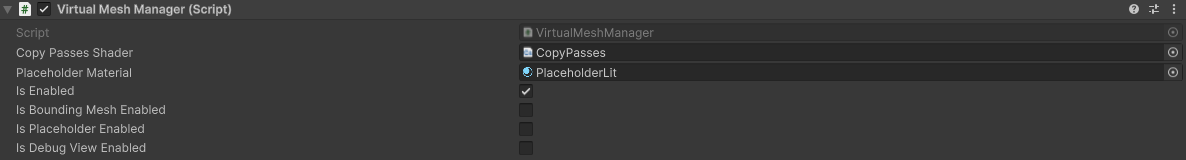
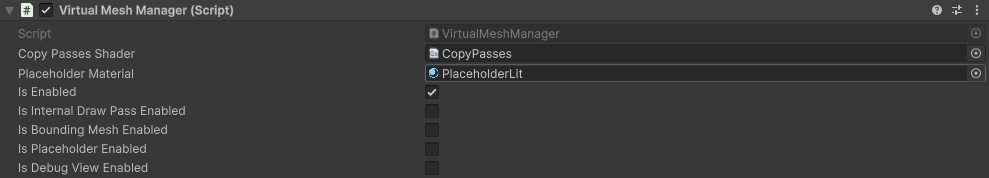
Added internal draw pass to prevent opaque pass dependency

diff --git a/Runtime/VirtualMeshManager.cs b/Runtime/VirtualMeshManager.cs
@@ -117,7 +117,6 @@ namespace Unity.VirtualMesh.Runtime
         private Material m_PlaceholderMaterial;
 
         private Mesh m_BoundingMesh;
-        private Bounds m_Bounds = new Bounds(Vector3.zero, 10000.0f * Vector3.one);
 
         private NativeArray<MemoryPageStatus> m_MemoryPageStatus;
 
@@ -342,89 +341,94 @@ namespace Unity.VirtualMesh.Runtime
         public bool IsEnabled = true;
 
         /// <summary>
+        /// Checks if disoccluded virtual meshes should be rendered with an internal pass instead of the URP opaque pass.
+        /// </summary>
+        public bool IsInternalDrawPassEnabled = true;
+
+        /// <summary>
         /// Checks if the empty bounding mesh surrounding virtual meshes is enabled.
         /// </summary>
-        public bool IsBoundingMeshEnabled = false;
+        public bool IsBoundingMeshEnabled;
 
         /// <summary>
         /// Checks if the placeholder system is enabled.
         /// </summary>
-        public bool IsPlaceholderEnabled = false;
+        public bool IsPlaceholderEnabled;
 
         /// <summary>
         /// Checks if the debug rendering view is enabled.
         /// </summary>
-        public bool IsDebugViewEnabled = false;
+        public bool IsDebugViewEnabled;
 
         /// <summary>
         /// The constant buffer containing stride values to index into memory page buffers that contain virtual mesh data.
         /// </summary>
-		public ref GraphicsBuffer PageStrideConstantBuffer => ref m_PageStrideConstants;
+		public GraphicsBuffer PageStrideConstantBuffer => m_PageStrideConstants;
 
         /// <summary>
         /// The buffer that contains all the metadata read from memory page headers.
         /// </summary>
-        public ref GraphicsBuffer PageDataBuffer => ref m_PageDataBuffer;
+        public GraphicsBuffer PageDataBuffer => m_PageDataBuffer;
 
         /// <summary>
         /// The buffer that contains all the vertex positions loaded from memory pages.
         /// </summary>
-        public ref GraphicsBuffer VertexPositionBuffer => ref m_VertexPositionBuffer;
+        public GraphicsBuffer VertexPositionBuffer => m_VertexPositionBuffer;
 
         /// <summary>
         /// The buffer that contains all the vertex attributes loaded from memory pages.
         /// </summary>
-        public ref GraphicsBuffer VertexAttributeBuffer => ref m_VertexAttributeBuffer;
+        public GraphicsBuffer VertexAttributeBuffer => m_VertexAttributeBuffer;
 
         /// <summary>
         /// The buffer that contains all the triangle indices loaded from memory pages.
         /// </summary>
-        public ref GraphicsBuffer IndexBuffer => ref m_IndexBuffer;
+        public GraphicsBuffer IndexBuffer => m_IndexBuffer;
 
         /// <summary>
         /// The buffer that contains the post-culling compacted triangle indices ready for drawing use.
         /// </summary>
-        public ref GraphicsBuffer CompactedIndexBuffer => ref m_CompactedIndexBuffer;
+        public GraphicsBuffer CompactedIndexBuffer => m_CompactedIndexBuffer;
 
         /// <summary>
         /// The buffer that contains one-bit flags representing triangle visibility for the previous frame.
         /// </summary>
-        public ref GraphicsBuffer PreviousTriangleVisibilityBuffer => ref m_TriangleVisibilityBuffer[m_PingPongBufferIndex % 2];
+        public GraphicsBuffer PreviousTriangleVisibilityBuffer => m_TriangleVisibilityBuffer[m_PingPongBufferIndex % 2];
 
         /// <summary>
         /// The buffer that contains one-bit flags representing triangle visibility for the current frame.
         /// </summary>
-        public ref GraphicsBuffer CurrentTriangleVisibilityBuffer => ref m_TriangleVisibilityBuffer[(m_PingPongBufferIndex + 1) % 2];
+        public GraphicsBuffer CurrentTriangleVisibilityBuffer => m_TriangleVisibilityBuffer[(m_PingPongBufferIndex + 1) % 2];
 
         /// <summary>
         /// The buffer that contains all the per-LOD hierarchy metadata loaded from memory pages.
         /// </summary>
-        public ref GraphicsBuffer GroupDataBuffer => ref m_GroupDataBuffer;
+        public GraphicsBuffer GroupDataBuffer => m_GroupDataBuffer;
 
         /// <summary>
         /// The buffer that contains all the per-cluster metadata loaded from memory pages.
         /// </summary>
-        public ref GraphicsBuffer InstanceDataBuffer => ref m_InstanceDataBuffer;
+        public GraphicsBuffer InstanceDataBuffer => m_InstanceDataBuffer;
 
         /// <summary>
         /// The buffer that contains compacted per-cluster metadata for triangles that survived culling.
         /// </summary>
-        public ref GraphicsBuffer TriangleDataBuffer => ref m_TriangleDataBuffer;
+        public GraphicsBuffer TriangleDataBuffer => m_TriangleDataBuffer;
 
         /// <summary>
         /// The buffer that contains compacted per-cluster metadata for shadow caster triangles that survived culling.
         /// </summary>
-        public ref GraphicsBuffer ShadowTriangleDataBuffer => ref m_ShadowTriangleDataBuffer;
+        public GraphicsBuffer ShadowTriangleDataBuffer => m_ShadowTriangleDataBuffer;
 
         /// <summary>
         /// The buffer containing the memory page streaming decision data computed on the GPU and read back to the CPU.
         /// </summary>
-        public ref GraphicsBuffer FeedbackBuffer => ref m_FeedbackBuffer;
+        public GraphicsBuffer FeedbackBuffer => m_FeedbackBuffer;
 
         /// <summary>
         /// The buffer containing flags to indicate to the GPU if pages are currently being streamed or if they are ready to be processed.
         /// </summary>
-        public ref GraphicsBuffer PageStatusBuffer => ref m_PageStatusBuffer;
+        public GraphicsBuffer PageStatusBuffer => m_PageStatusBuffer;
 
         /// <summary>
         /// Updates the page status buffer based on a specific page's streaming condition.
@@ -473,17 +477,17 @@ namespace Unity.VirtualMesh.Runtime
         /// <summary>
         /// The indirect argument buffer used for indirect compute dispatches in the virtual mesh pipeline.
         /// </summary>
-        public ref GraphicsBuffer DispatchArgsBuffer => ref m_DispatchArgsBuffer;
+        public GraphicsBuffer DispatchArgsBuffer => m_DispatchArgsBuffer;
 
         /// <summary>
         /// The indirect argument buffer used for indirect draws in the virtual mesh pipeline.
         /// </summary>
-        public ref GraphicsBuffer DrawArgsBuffer => ref m_DrawArgsBuffer;
+        public GraphicsBuffer DrawArgsBuffer => m_DrawArgsBuffer;
 
         /// <summary>
         /// The indirect argument buffer used for indirect shadow caster draws in the virtual mesh pipeline.
         /// </summary>
-        public ref GraphicsBuffer ShadowDrawArgsBuffer => ref m_ShadowDrawArgsBuffer;
+        public GraphicsBuffer ShadowDrawArgsBuffer => m_ShadowDrawArgsBuffer;
 
         /// <summary>
         /// Processes the GPU's memory page streaming decision data and handles the streaming loop.
@@ -817,7 +821,7 @@ namespace Unity.VirtualMesh.Runtime
         /// </summary>
         private bool RequestHeaders()
         {
-            if (m_Initialized || m_HeaderJobRunning)
+            if (m_HeaderJobRunning)
                 return false;
 
             LoadMeshHeaderJob job = new LoadMeshHeaderJob
@@ -841,9 +845,6 @@ namespace Unity.VirtualMesh.Runtime
         /// </summary>
         private bool RequestMaterials()
         {
-            if (m_Initialized)
-                return false;
-
             // load materials
             m_MaterialAssetBundle = AssetBundle.LoadFromFile($"{Application.streamingAssetsPath}/{ResourcePathDefinitions.materialBundleFullPath}");
             if (m_MaterialAssetBundle == null)
@@ -862,7 +863,7 @@ namespace Unity.VirtualMesh.Runtime
             {
                 var param = new RenderParams(m_Materials[i]);
                 param.camera = GetComponent<Camera>();
-                param.worldBounds = m_Bounds;
+                param.worldBounds = m_BoundingMesh.bounds;
                 param.shadowCastingMode = ShadowCastingMode.Off; // vmesh shadow maps use a custom pass
                 param.receiveShadows = true;
 
@@ -1303,15 +1304,18 @@ namespace Unity.VirtualMesh.Runtime
 
             if (RequestMetadata())
             {
-                RequestMaterials();
-
                 AllocateData();
-                AllocateDrawBuffers();
-                AllocateShadowDrawBuffers();
 
-                RequestHeaders();
+                if (RequestMaterials())
+                {
+                    AllocateDrawBuffers();
+                    AllocateShadowDrawBuffers();
 
-                m_Initialized = true;
+                    if (RequestHeaders())
+                    {
+                        m_Initialized = true;
+                    }
+                }
             }
 
             s_Instance = this;
@@ -1366,12 +1370,13 @@ namespace Unity.VirtualMesh.Runtime
                     DrawBoundingMesh();
 
 #if UNITY_EDITOR || DEVELOPMENT_BUILD
-                if (!IsDebugViewEnabled)
+                if (!IsDebugViewEnabled && !IsInternalDrawPassEnabled)
 #endif
                 {
                     DrawVirtualMesh();
-                    DrawPlaceholders();
                 }
+
+                DrawPlaceholders();
             }
 
             m_PingPongBufferIndex = ++m_PingPongBufferIndex % 2;

diff --git a/Runtime/RenderFeatures/VirtualMeshRenderFeature.cs b/Runtime/RenderFeatures/VirtualMeshRenderFeature.cs
@@ -39,6 +39,7 @@ namespace Unity.VirtualMesh.Runtime
         private DrawShadowPass m_DrawShadowPass;
         private RefreshDepthPyramidPass m_RefreshDepthPass;
         private VisibilityPass m_VisibilityPass;
+        private DrawPass m_DrawPass;
 
         public override void Create()
         {
@@ -49,6 +50,7 @@ namespace Unity.VirtualMesh.Runtime
             m_DrawShadowPass = new DrawShadowPass(name + " Draw Shadow Pass");
             m_RefreshDepthPass = new RefreshDepthPyramidPass(name + " Refresh Depth Pyramid Pass");
             m_VisibilityPass = new VisibilityPass(name + " Visibility Pass");
+            m_DrawPass = new DrawPass(name + " Draw Pass");
         }
 
         protected override void Dispose(bool disposing)
@@ -82,6 +84,14 @@ namespace Unity.VirtualMesh.Runtime
             m_VisibilityPass.renderPassEvent = RenderPassEvent.BeforeRenderingGbuffer;
             m_VisibilityPass.settings = settings;
             renderer.EnqueuePass(m_VisibilityPass);
+
+            if (VirtualMeshManager.Instance.IsInternalDrawPassEnabled)
+            {
+                // drawing should occur after visibility has been resolved
+                m_DrawPass.renderPassEvent = RenderPassEvent.BeforeRenderingGbuffer;
+                m_DrawPass.settings = settings;
+                renderer.EnqueuePass(m_DrawPass);
+            }
         }
     }
 
@@ -549,6 +559,82 @@ namespace Unity.VirtualMesh.Runtime
                 passData.settings = settings;
                 passData.profilingSampler = m_ProfilingSampler;
                 passData.shadowCascadeCount = frameData.Get<UniversalShadowData>().mainLightShadowCascadesCount;
+
+                builder.AllowPassCulling(false);
+
+                builder.SetRenderFunc((PassData data, UnsafeGraphContext context) => ExecutePass(data, context));
+            }
+        }
+    }
+
+    /// <summary>
+    /// Custom render pass to draw newly disoccluded geometry (second pass in the two-pass occlusion culling algorithm).
+    /// </summary>
+    internal class DrawPass : ScriptableRenderPass
+    {
+        public VirtualMeshRenderFeature.Settings settings;
+
+        private string m_ProfilerTag;
+        private ProfilingSampler m_ProfilingSampler;
+
+        private class PassData
+        {
+            internal VirtualMeshRenderFeature.Settings settings;
+            internal ProfilingSampler profilingSampler;
+        }
+
+        public DrawPass(string tag)
+        {
+            m_ProfilerTag = tag;
+            m_ProfilingSampler = new ProfilingSampler(m_ProfilerTag);
+        }
+
+        static void ExecutePass(PassData data, UnsafeGraphContext context)
+        {
+            var cmd = context.cmd;
+            using (new ProfilingScope(cmd, data.profilingSampler))
+            {
+                // draw geometry
+                for (int i = 0; i < VirtualMeshManager.Instance.Materials.Length; i++)
+                {
+                    uint vertexCount = VirtualMeshManager.Instance.MaterialVertexCounts[i];
+                    if (i > 0 && vertexCount == 0)
+                        continue;
+
+                    var material = VirtualMeshManager.Instance.Materials[i];
+
+                    // try to find the correct pass (TODO improve this)
+                    var pass = material.FindPass(data.settings.renderMode == RenderingPath.DeferredShading ? VirtualMeshShaderProperties.GBufferPassName : VirtualMeshShaderProperties.SGForwardPassName);
+                    if (pass == -1)
+                        pass = material.FindPass(VirtualMeshShaderProperties.LitForwardPassName);
+
+                    if (pass != -1)
+                        cmd.DrawProceduralIndirect(VirtualMeshManager.Instance.CompactedIndexBuffer, Matrix4x4.identity, material, pass, MeshTopology.Triangles, VirtualMeshManager.Instance.DrawArgsBuffer, i * VirtualMeshManager.Instance.DrawArgsBuffer.stride);
+                }
+            }
+        }
+
+        public override void RecordRenderGraph(RenderGraph renderGraph, ContextContainer frameData)
+        {
+            if (VirtualMeshManager.Instance == null || !VirtualMeshManager.Instance.IsInitialized)
+                return;
+
+            var resourceData = frameData.Get<UniversalResourceData>();
+
+            using (var builder = renderGraph.AddUnsafePass<PassData>(m_ProfilerTag, out var passData))
+            {
+                passData.settings = settings;
+                passData.profilingSampler = m_ProfilingSampler;
+
+                if (settings.renderMode == RenderingPath.DeferredShading)
+                {
+                    for (int i = 0; i < resourceData.gBuffer.Length; i++)
+                        builder.SetRenderAttachment(resourceData.gBuffer[i], i, AccessFlags.Write);
+                }
+                else
+                    builder.SetRenderAttachment(resourceData.cameraColor, 0, AccessFlags.Write);
+
+                builder.SetRenderAttachmentDepth(resourceData.cameraDepth, AccessFlags.Write);
 
                 builder.AllowPassCulling(false);
 

diff --git a/README.md b/README.md
@@ -57,6 +57,7 @@ The VirtualMeshManager script has several fields:
 - `Copy Passes Shader` should be set to *Packages/com.unity.virtualmesh/Runtime/Shaders/CopyPasses.compute*
 - `Placeholder Material` should be set to *Packages/com.unity.virtualmesh/Runtime/Materials/PlaceholderLit.mat*
 - `Is Enabled` allows you to enable or disable virtual meshes without incurring the heavy cost of enabling or disabling the `Virtual Mesh Manager` component itself
+- `Is Internal Draw Pass Enabled` tells the system to use a dedicated render pass to draw disoccluded geometry instead of the URP default opaque passes
 - `Is Bounding Mesh Enabled` tells the system to draw an empty bounding mesh that forces URP to create shadow maps in case only virtual meshes are present in the scene
 - `Is Placeholder Enabled` allows you to enable placeholder meshes that should be drawn instead of memory pages when they are not ready to be used
 - `Is Debug View Enabled` allows you to render virtual meshes with a debug shader (see *Troubleshooting* section)

diff --git a/CHANGELOG.md b/CHANGELOG.md
@@ -10,6 +10,7 @@ and this project adheres to [Semantic Versioning](http://semver.org/spec/v2.0.0.
 
 - Added third party notice and updated license links
 - Exposed simplification error target in baker
+- Added internal draw pass to prevent opaque pass dependency
 
 ### Changed
 
